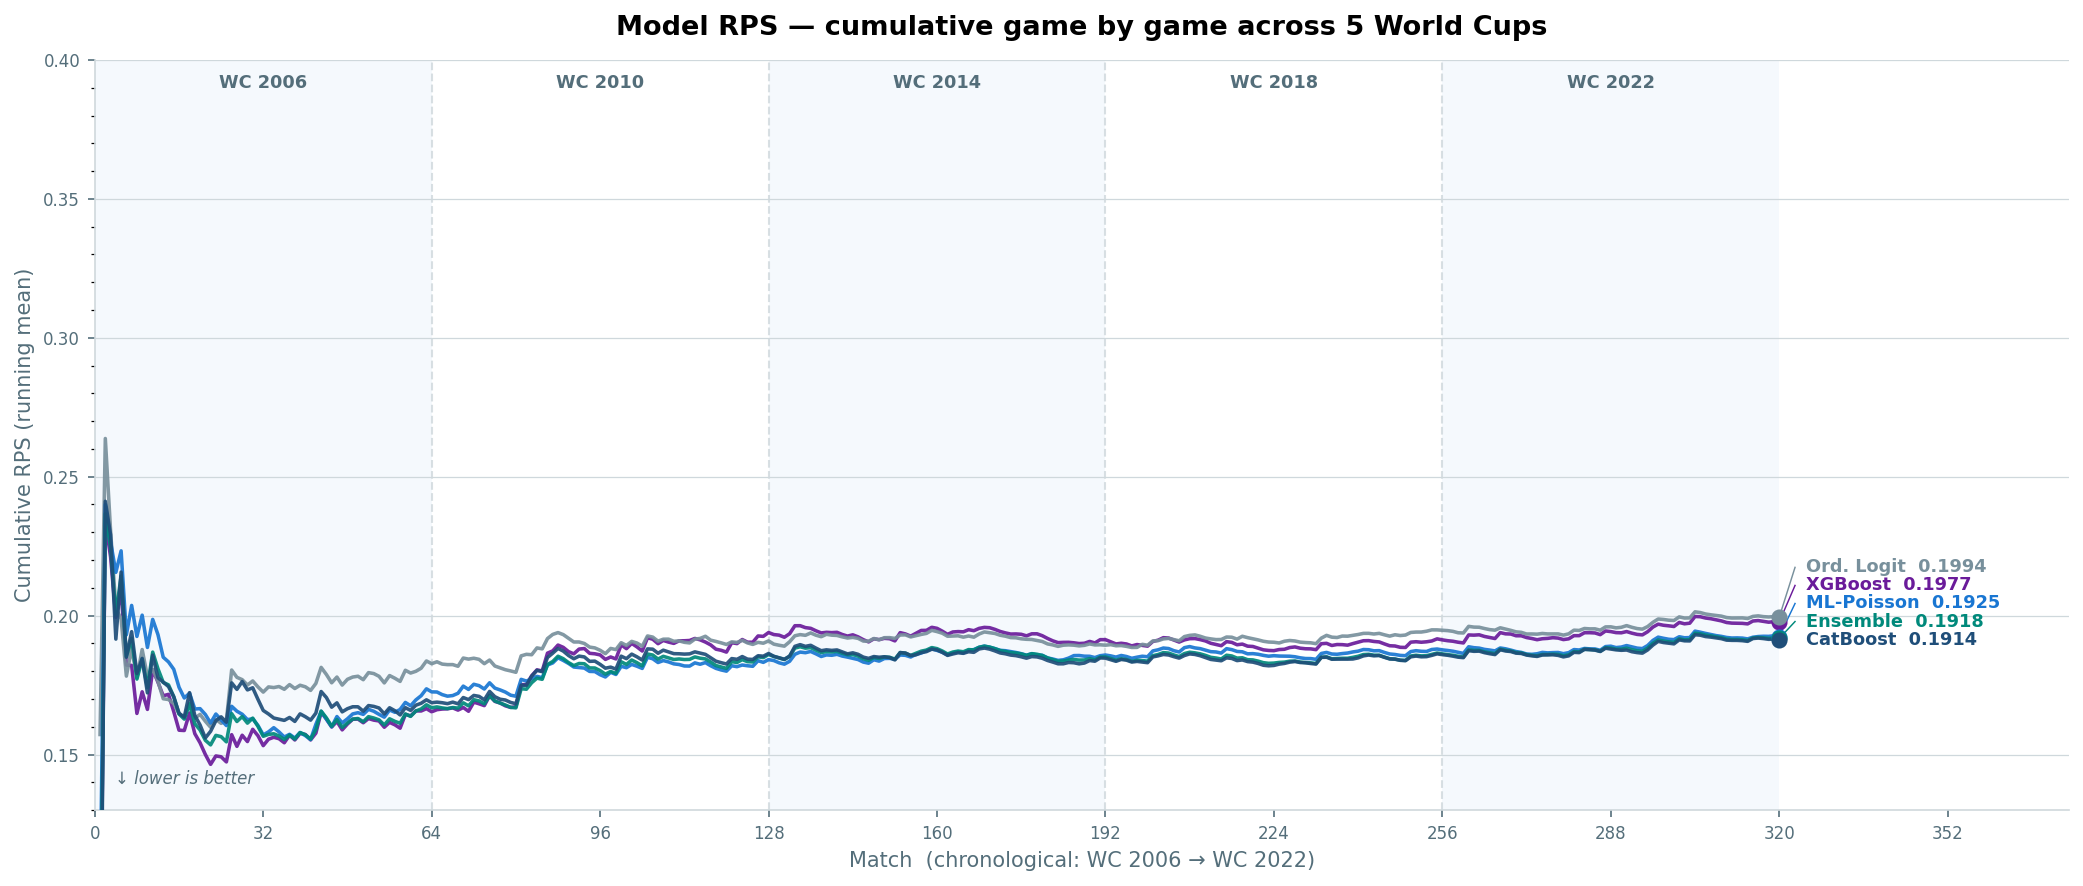
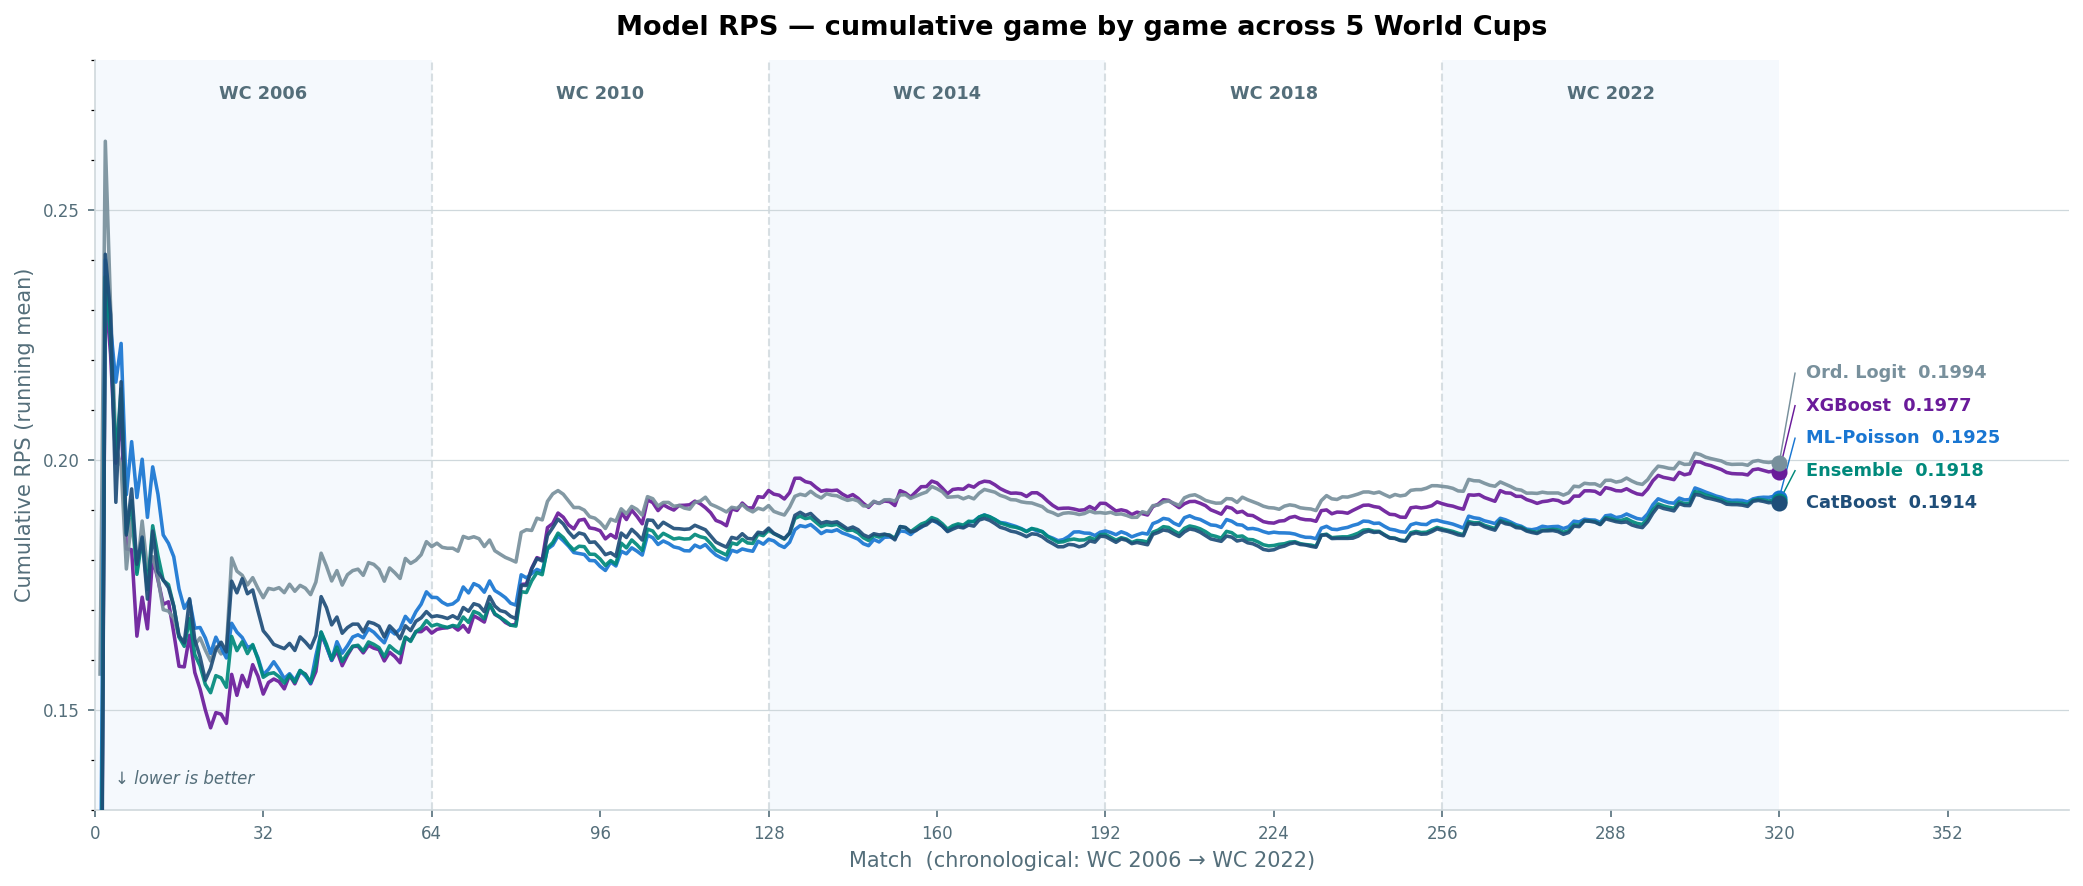
Tighten cumulative RPS chart upper y-bound
Y_MAX now computed dynamically from actual data max + 6% margin
instead of the hardcoded 0.40 that was never reached.

diff --git a/viz/backtest_cumulative_rps.py b/viz/backtest_cumulative_rps.py
@@ -84,7 +84,8 @@ def run():
     fig.patch.set_facecolor('white')
     ax.set_facecolor('white')
 
-    Y_MIN, Y_MAX = 0.13, 0.40
+    data_max = max(s.max() for s in series.values())
+    Y_MIN, Y_MAX = 0.13, round(data_max * 1.06, 2)
     ax.set_xlim(0, total + 55)
     ax.set_ylim(Y_MIN, Y_MAX)
 
